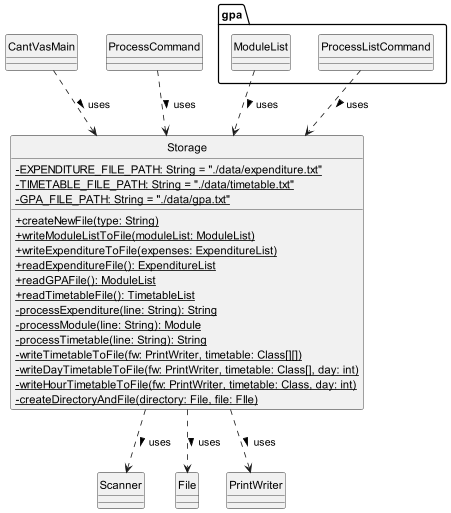
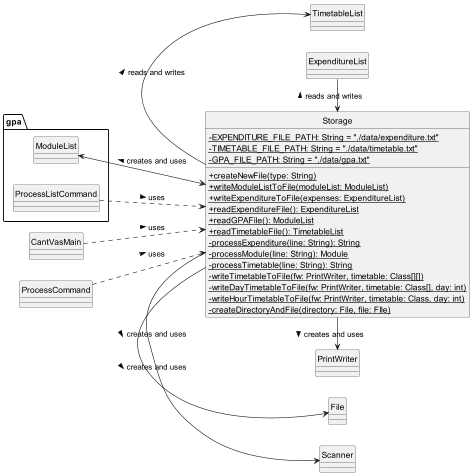
Edit diagrams and add explanation for storage and processcommand

diff --git a/docs/DeveloperGuide.md b/docs/DeveloperGuide.md
@@ -82,8 +82,8 @@ How `UI` works:
 
 ![UIClassDiagram](diagrams/classdiagram/UICD.png)
 
-The class diagram above illustrates that CantVasMain instantiates the UI class,
-while other classes have dependencies on UI, as they utilize its methods.
+The class diagram above illustrates that `CantVasMain` instantiates the `UI` class,
+while other classes have dependencies on `UI`, as they utilize its methods.
 
 *Sequence Diagram*
 
@@ -111,9 +111,15 @@ How `ProcessCommand` works:
 
 ![ProcessCommandClassDiagram](diagrams/classdiagram/ProcessCommandCD.png)
 
+The class diagram above showcases the various classes leveraged by 
+`ProcessCommand` to facilitate its task of parsing and executing commands.
+
 *Sequence Diagram*
 
 ![ProcessCommandSequenceDiagram](diagrams/sequencediagram/ProcessCommand.png)
+
+The sequence diagram above illustrates how user input is parsed 
+and executed when passed to `ProcessCommand`.
 
 ### Storage
 
@@ -124,11 +130,13 @@ How `Storage` works:
    All text will be in a folder called data for easy location.
 2. When `ProcessCommand` receives the `exit` command, `Storage` writes expenditure and
    timetable lists to their respective text file for saving.
-3. Reads in data from text file and process the data into strings to pass into
-   `addExpenditure`, `addModule` and `addClass` methods. 
+3. `Storage` will instantiate ExpenditureList, TimetableList and ModuleList to store data read
+   from the text file before passing it to other classes. 
 4. If a text file or the data directory is not found when trying to read,
-   `Storage` will create a new file/ directory and return an empty list to the caller.
-5. `PrintWriter` and `File` and `Scanner` classes are responsible 
+   `Storage` will create a new file/ directory and return an empty list to the caller. 
+5. Reads in data from text file and process the data into strings to pass into
+   `addExpenditure`, `addModule` and `addClass` methods.
+6. `PrintWriter` and `File` and `Scanner` classes are responsible 
    for the writing, opening and reading from files respectively.
 
 **Diagrams**
@@ -136,6 +144,8 @@ How `Storage` works:
 *Class Diagram*
 
 ![StorageClassDiagram](diagrams/classdiagram/StorageCD.png)
+
+The class diagram above illustrates the classes that is associated or is dependent on `Storage`.
 
 ### Exceptions
 
